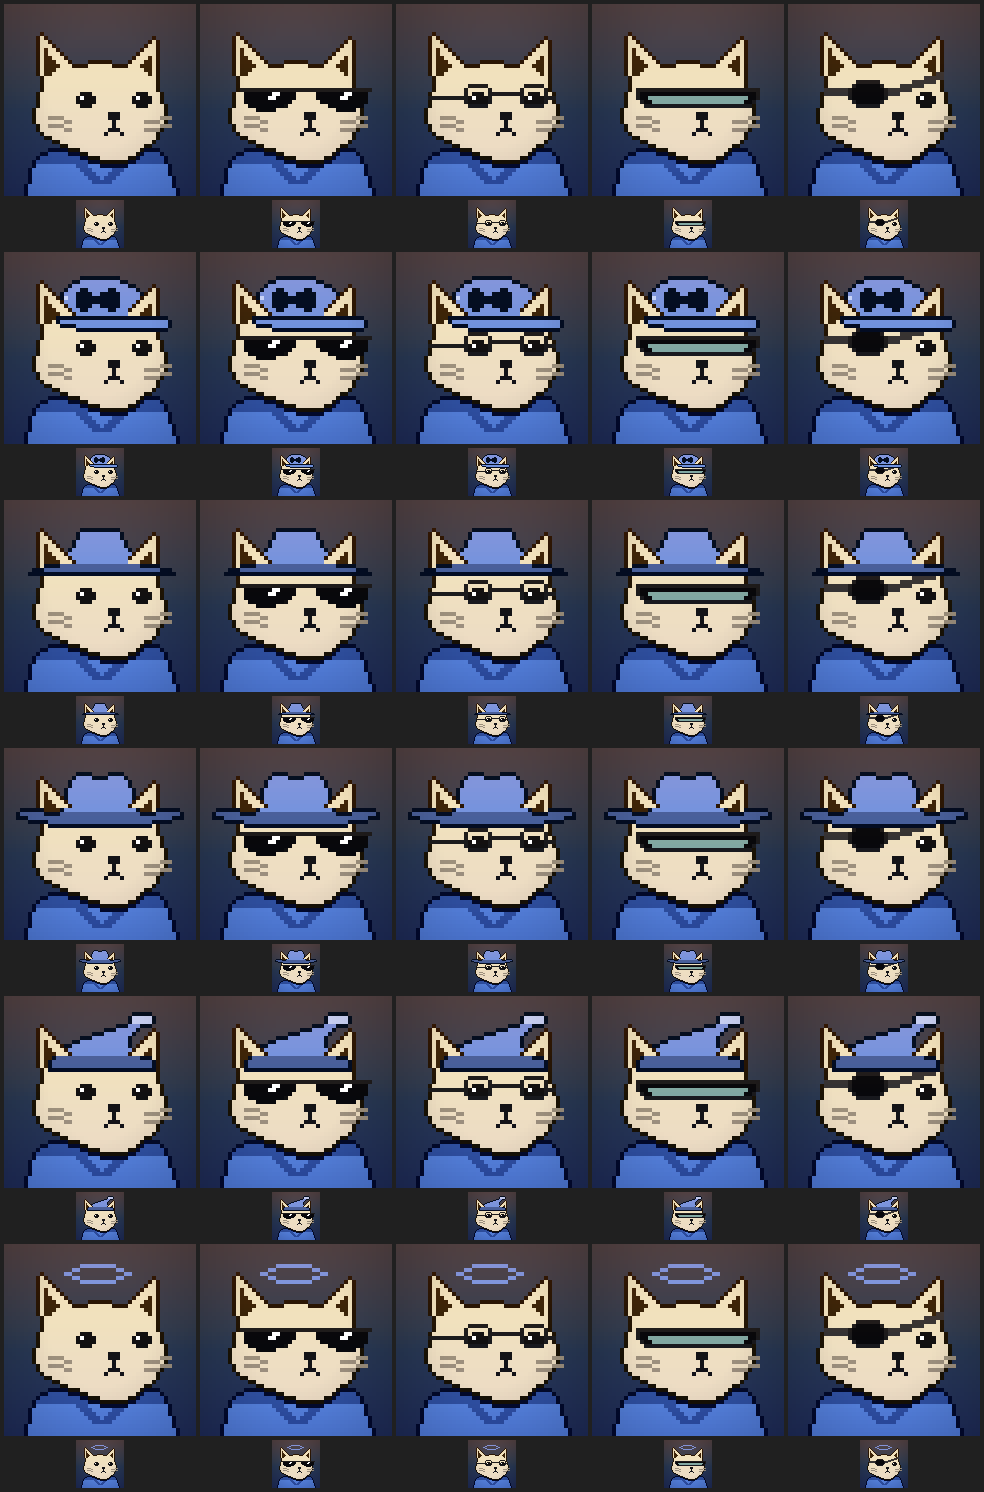
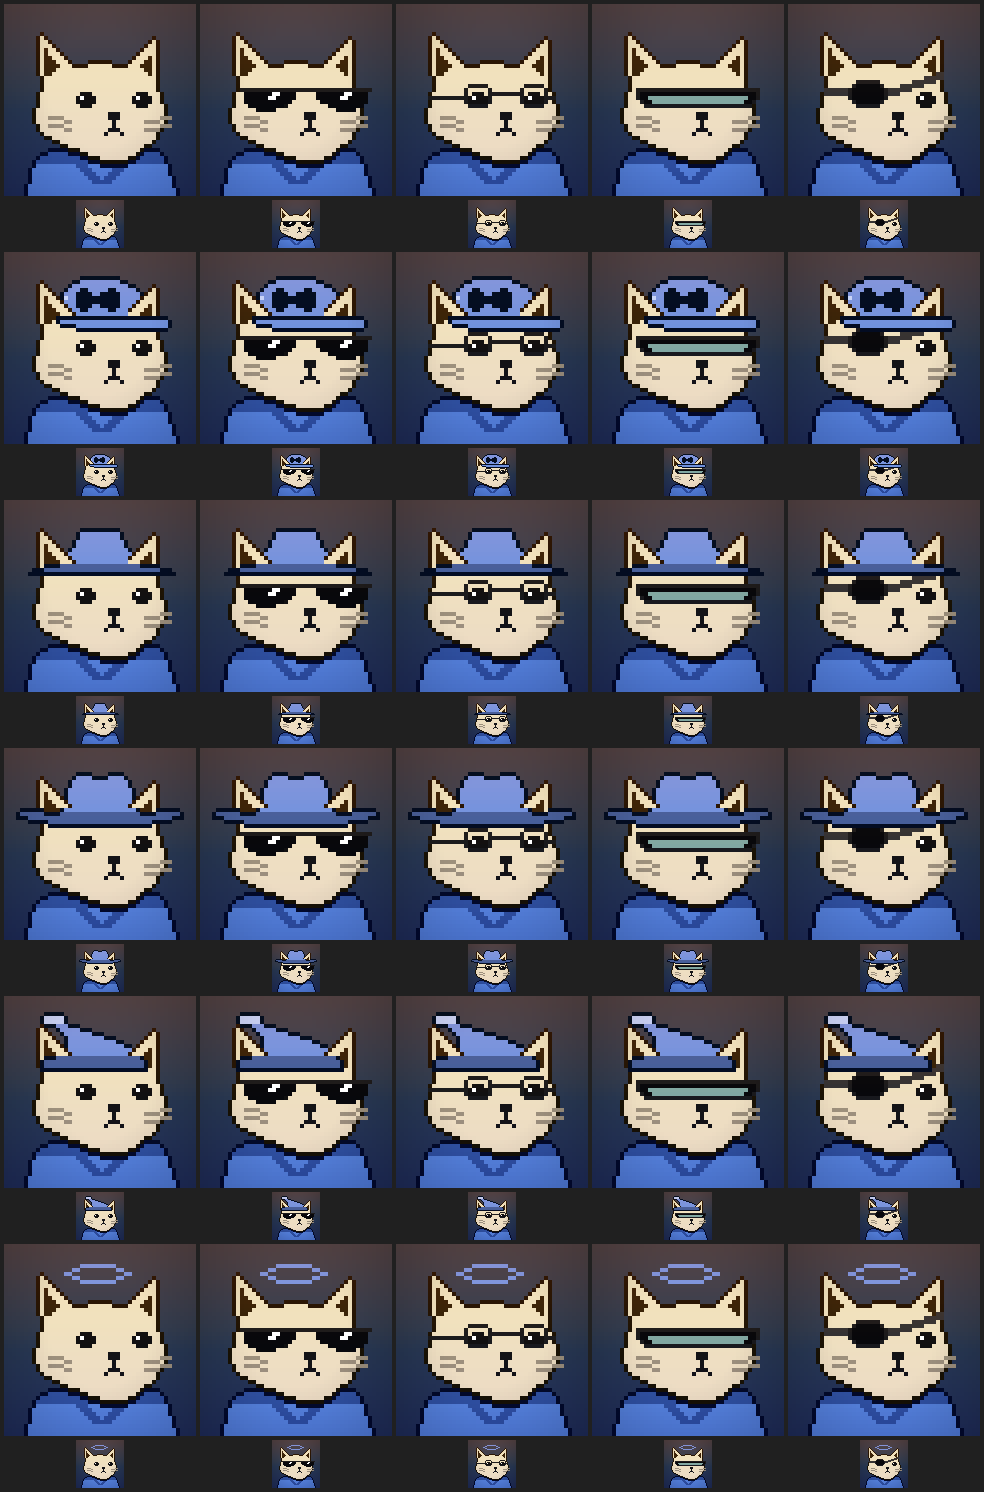
Tilt the nightcap the other way
Reflected through AXIS, so the cuff still sits centred: the skull is symmetric
even though the cat is not. The tip and pom now fall over the near ear rather
than the far one.

Two attempts to do better than a plain mirror while turning it round both lost,
and both are recorded next to the spans because neither is obviously wrong until
you render it.

Giving the pom a fourth row to make it rounder is correct in isolation and wrong
here. The pom's job is to be the far end of a diagonal, and enough mass to read as
a ball on its own stands it up as a vertical knob on the crown, which is a bobble
hat. It also pushed the cone into the near ear and four rows came back cut where
the mirror loses two.

Nor can the tip hang. A real nightcap flops and the pom dangles, and there is a
route for it, since nothing sits above row 6 and a cone can arc over the ear and
come down outside it. Built, it droops convincingly at 8x and collapses at 48: the
limb carrying the pom has columns 2-7 to live in, because 8-17 is ear and gets cut,
so it is two or three columns wide with one of them the ink line. The limb
disappears behind the ear and the pom is a tab floating in the background.
Thickening it only enlarges the tab. That generalises past this hat -- a hanging
tip, a tassel or a ponytail is unavailable on this sprite -- so it is in AGENTS.md
rather than only here.

Both were rejected at native size after looking fine blown up, which is the usual
way round.

diff --git a/packages/hyper-identicons/src/art/data/headwear.ts b/packages/hyper-identicons/src/art/data/headwear.ts
@@ -4,6 +4,6 @@ export const headwear: Record<string, string> = {
[3 lines of base64/hex data omitted]
-  "nightcap": 'BAsPGxUABQEVAAEBBQgBARQAAQEFCAEBEQADAQMGAwEPAAMBBQYBAQ8AAwEHBgEBDQADAQkGAQEMAAIBDAYBAQoAAgEOBgEBCwAQBgwADgYIAAEBFQcDAQEAAQEZBwIBGQccAQ==',
+  "nightcap": 'BAkPGwEABQEVAAEBBQgBARQAAQEFCAEBFQADAQMGAwEVAAEBBQYDARMAAQEHBgMBEQABAQkGAwEOAAEBDAYCAQwAAQEOBgIBCwAQBgwADgYGAAMBFQcBAQEAAQEZBwIBGQccAQ==',
   "halo": 'BQ8FEQQACQYGAAIGCQACBgIAAgYNAAIGAgACBgkAAgYGAAkGBAA=',
 };

diff --git a/tools/make-traits.py b/tools/make-traits.py
@@ -555,24 +555,46 @@ emit("headwear/cowboy.txt", hat(merge(
 # what reads: a squared arch with a hat lost inside it. Dropping it low enough to
 # close that gap puts it back on the ears. There is no height that works.
 
-# Drooping to the far side, which is where the asymmetry earns its keep: almost
-# everything else worn here is bilateral, and the cat is not.
+# Drooping to the near side, which is where the asymmetry earns its keep: almost
+# everything else worn here is bilateral, and the cat is not. An exact reflection
+# through AXIS, which is why the cuff still sits centred: the skull is symmetric
+# even though the cat is not.
+#
+# It used to droop the other way, and two attempts to do better than a plain
+# mirror while turning it round both failed:
+#
+# Giving the pom a fourth row to make it rounder is right in isolation and wrong
+# here. The pom's job is to be the far end of a diagonal, and enough mass to read
+# as a ball on its own stands it up as a vertical knob on the crown -- which is a
+# bobble hat. It also pushed the cone down into the near ear, and four rows came
+# back cut instead of two.
+#
+# Nor can the tip actually hang. A real nightcap flops over and the pom dangles,
+# and there is a route for it: nothing is above row 6, so the cone can arc over
+# the ear and come down outside it around column 4. Built, it droops convincingly
+# at 8x and falls apart at 48 -- the limb carrying the pom has columns 2-7 to live
+# in, because 8-11 is ear and gets cut, so it is two or three columns wide with one
+# of those the ink line. At native size the limb disappears behind the ear and the
+# pom is a tab floating in the background. Thickening it only enlarges the tab.
+#
+# So the tip points up rather than hanging, on both this and every version before
+# it. That is a real limitation of a 48px canvas with tall ears, not an oversight.
 emit("headwear/nightcap.txt", hat({
-    3: [(32, 36, "c")],
-    4: [(31, 37, "c")],
-    5: [(31, 37, "c")],
-    6: [(28, 36, "a")],
-    7: [(25, 33, "a")],
-    8: [(22, 32, "a")],
-    9: [(19, 31, "a")],
-    10: [(17, 31, "a")],
+    3: [(10, 14, "c")],
+    4: [(9, 15, "c")],
+    5: [(9, 15, "c")],
+    6: [(10, 18, "a")],
+    7: [(13, 21, "a")],
+    8: [(14, 24, "a")],
+    9: [(15, 27, "a")],
+    10: [(15, 29, "a")],
     11: [(15, 31, "a")],
-    12: [(13, 32, "a")],
-    13: [(12, 33, "a")],
-    14: [(12, 36, "b")],
-    15: [(11, 37, "b")],
-    16: [(11, 37, "b")],
-    17: [(11, 37, "b")],
+    12: [(14, 33, "a")],
+    13: [(13, 34, "a")],
+    14: [(10, 34, "b")],
+    15: [(9, 35, "b")],
+    16: [(9, 35, "b")],
+    17: [(9, 35, "b")],
 }, crown=range(0, 14)), "# Nightcap with a pom. Slots: a cone, b cuff, c pom.")
 
 # No headphones. The last version read well -- band arcing over and clipped behind

diff --git a/AGENTS.md b/AGENTS.md
@@ -454,6 +454,15 @@ Two rules of thumb learned the hard way:
   `a`, which flips with tone. It also cost the mortarboard its tassel: a two-pixel
   cord came out solid ink right beside the far ear's own ink line. Anything that
   dangles needs a terminal mass wide enough to keep an interior.
+- **Nothing can hang past an ear, so no worn thing on this cat actually droops.**
+  The nightcap's tip points up rather than flopping over, and it is not for want of
+  trying. There is a route — nothing sits above row 6, so a cone can arc over the
+  near ear and come down outside it — and built, it droops convincingly at 8x. At
+  48 it collapses, because the limb carrying the tip has only columns 2-7 to live
+  in once the ear takes 8-17, and two or three columns with an ink line in them is
+  a wire that vanishes behind the ear and strands the tip in the background.
+  Thickening the limb just enlarges the stranded part. Treat a hanging tip, a
+  tassel or a ponytail as unavailable rather than as a thing to get right.
 - **Read a hat's outline as if it were solid black.** That is all you get at 48px.
   By that logic one thick horizontal band is a striped jumper whatever colour it
   is — the jersey needed trim above and below the band before it read as sport.
